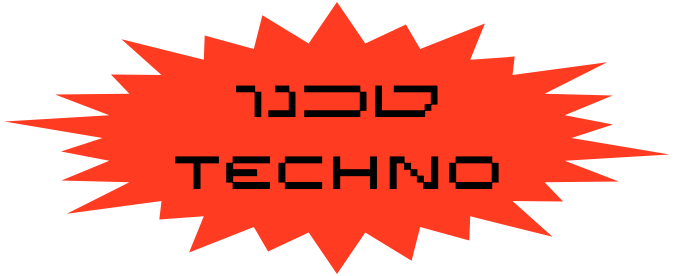
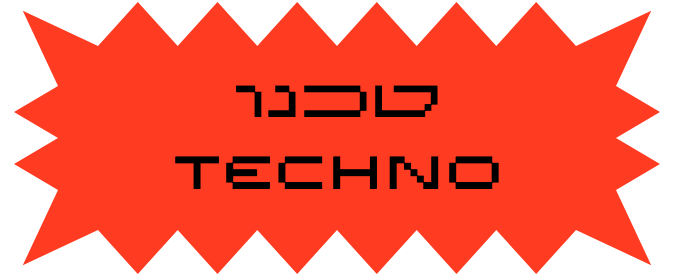
Techno test label: rectangle with even spikes; ?label=wave shows a moving waveform version

Changed region(s): [[0.0, 0.0, 0.997, 0.9855]]

diff --git a/index-techno-test.html b/index-techno-test.html
@@ -1521,5 +1521,55 @@ ease;
     });
   })();
 </script>
+<script>
+(function () {
+  if (new URLSearchParams(location.search).get('label') !== 'wave') return;
+  var a = document.querySelector('.collage a.a13'); if (!a) return;
+  var imgs = a.querySelectorAll('img'), base = imgs[0];
+  imgs.forEach(function (im) { im.style.setProperty('opacity', '0', 'important'); });
+  var cv = document.createElement('canvas');
+  cv.style.cssText = 'position:absolute;left:0;top:0;width:100%;height:100%;pointer-events:none';
+  a.appendChild(cv);
+  var ctx = cv.getContext('2d'), W = 674, H = 276, ready = false;
+  var fb = new FontFace('NTTechnoB', 'url(fonts/Techno/Techno-Bold.woff2)');
+  var fe = new FontFace('NTTechnoEB', 'url(fonts/Techno/Techno-Extended-Bold.woff2)');
+  Promise.all([fb.load(), fe.load()]).then(function (f) { f.forEach(function (x) { document.fonts.add(x); }); ready = true; });
+  var still = window.matchMedia && matchMedia('(prefers-reduced-motion: reduce)').matches;
+  function rnd(i, k) { var x = Math.sin(i * 127.1 + k * 311.7) * 43758.5453; return x - Math.floor(x); }
+  function draw(t) {
+    var r = window.devicePixelRatio || 1, bw = a.clientWidth, bh = bw * H / W;
+    if (cv.width !== Math.round(bw * r)) { cv.width = Math.round(bw * r); cv.height = Math.round(bh * r); }
+    var s = cv.width / W; ctx.setTransform(s, 0, 0, s, 0, 0); ctx.clearRect(0, 0, W, H);
+    var red = a.matches(':hover') || /hover/.test(base.currentSrc || base.src);
+    ctx.fillStyle = red ? '#FF3B21' : '#E8FF3A';
+    var beat = still ? 1 : 0.86 + 0.14 * Math.pow(1 - ((t / 1000 * 124 / 60) % 1), 3);   // 124 BPM pulse
+    var frame = still ? 0 : Math.floor(t / 70);                                         // live-meter flicker
+    var step = 3, cy = H / 2, top = [], bot = [];
+    for (var x = 0; x <= W; x += step) {
+      var u = (x - W / 2) / (W / 2), i = x / step;
+      var env = Math.pow(Math.max(0, 1 - Math.abs(u)), 0.55);
+      var flow = 0.55 + 0.25 * Math.sin(u * 7 + t / 420) + 0.2 * Math.sin(u * 17 - t / 260);
+      var jag = 0.35 + 0.65 * rnd(i, frame);
+      var amp = (H / 2 - 4) * env * flow * jag * beat;
+      var core = Math.abs(u) < 0.62 ? 62 * Math.cos(Math.abs(u) / 0.62 * Math.PI / 2) + 22 : 0;   // keeps the words on solid color
+      amp = Math.max(amp, core, 1.5);
+      top.push([x, cy - amp]); bot.push([x, cy + amp * (0.85 + 0.15 * rnd(i, frame + 7))]);
+    }
+    ctx.beginPath(); ctx.moveTo(0, cy);
+    top.forEach(function (p) { ctx.lineTo(p[0], p[1]); });
+    for (var j = bot.length - 1; j >= 0; j--) ctx.lineTo(bot[j][0], bot[j][1]);
+    ctx.closePath(); ctx.fill();
+    if (ready) {
+      ctx.fillStyle = '#000'; ctx.textAlign = 'center'; ctx.textBaseline = 'alphabetic';
+      ctx.font = '100px NTTechnoB'; var en = 100 * (W * 0.5) / ctx.measureText('TECHNO').width;
+      ctx.font = '100px NTTechnoEB'; var he = 100 * (W * 0.31) / ctx.measureText('טכנו').width;
+      ctx.font = he + 'px NTTechnoEB'; ctx.direction = 'rtl'; ctx.fillText('טכנו', W / 2, cy - 6);
+      ctx.font = en + 'px NTTechnoB'; ctx.direction = 'ltr'; ctx.fillText('TECHNO', W / 2, cy + 6 + en * 0.72);
+    }
+    if (!still || !ready) requestAnimationFrame(draw);
+  }
+  requestAnimationFrame(draw);
+})();
+</script>
 </body>
 </html>
